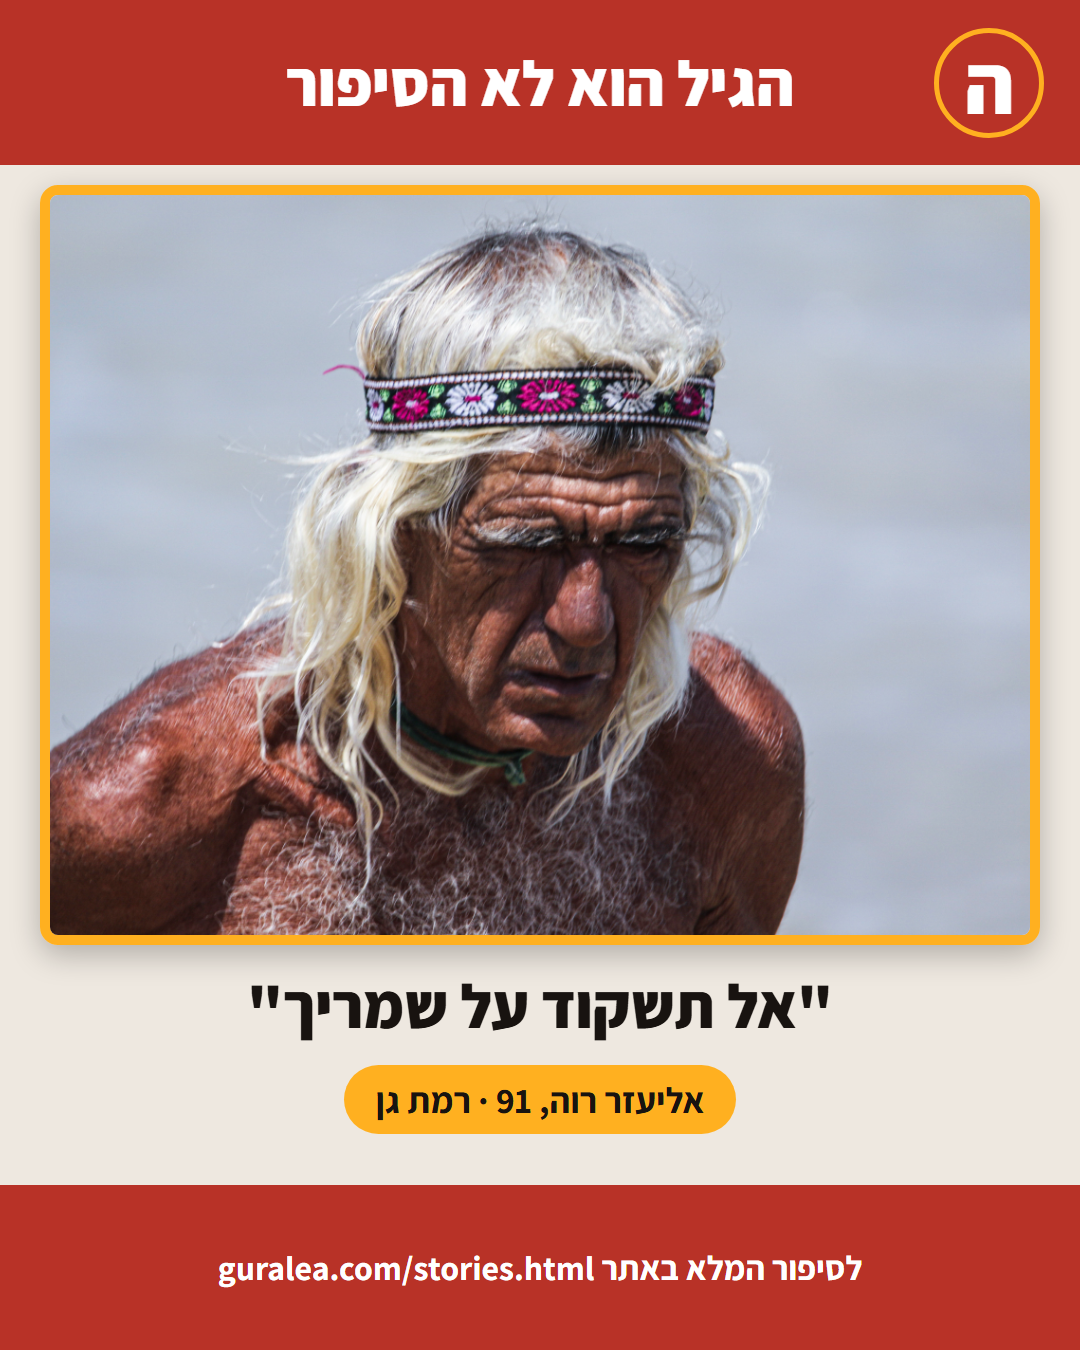
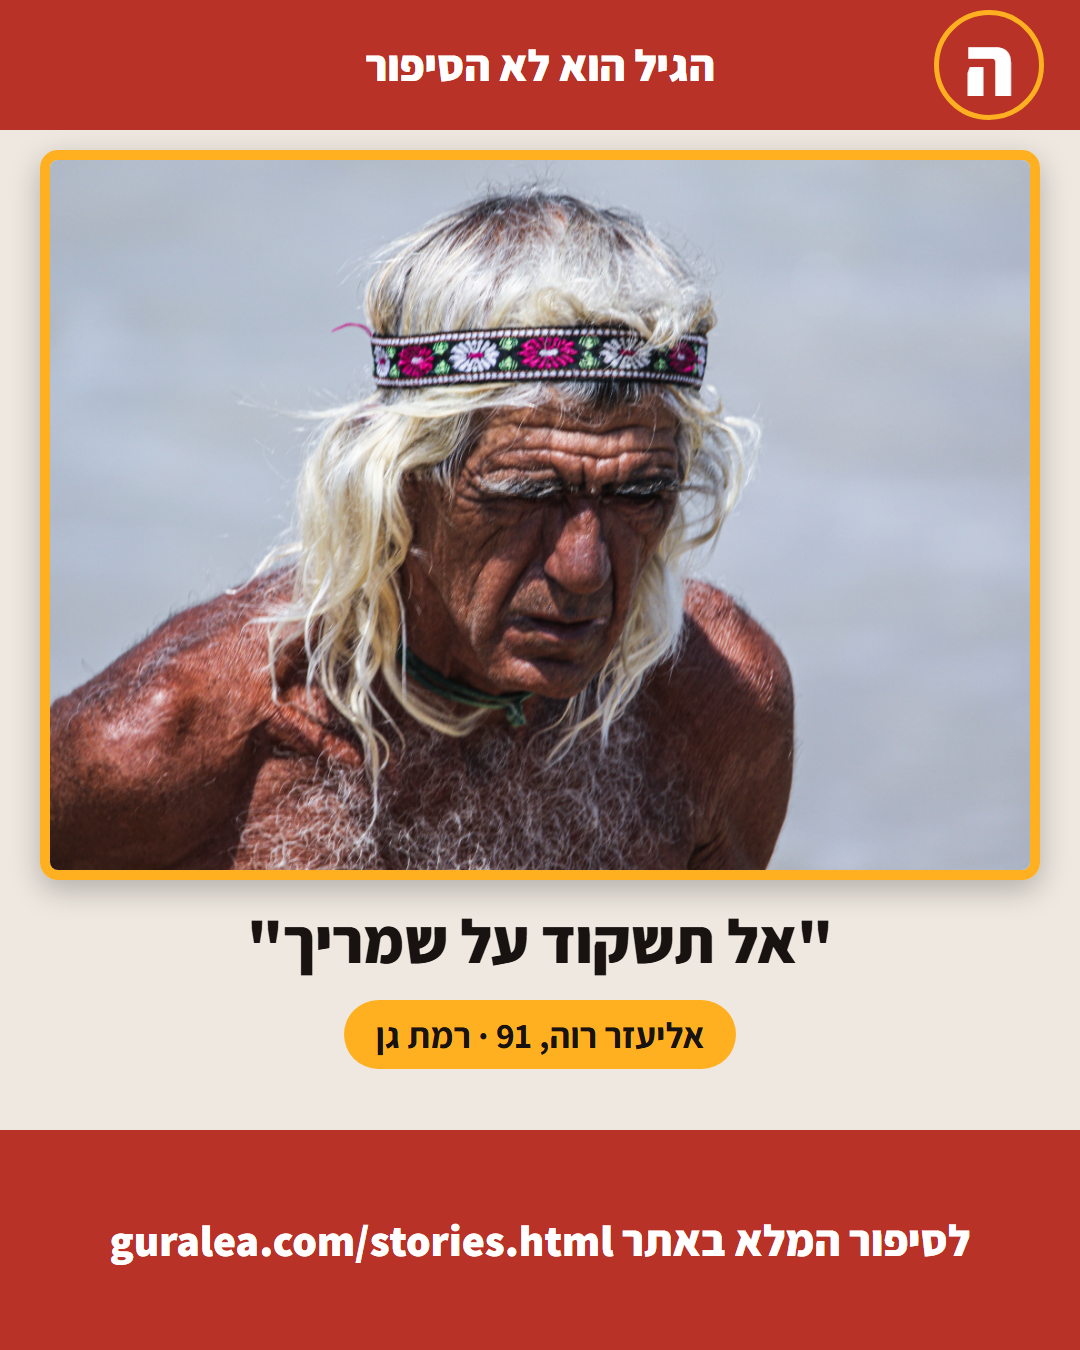
Rebalance bands: smaller top, bigger bottom, matching text sizes
Per Leah's explicit correction: top red band shrunk, bottom red band
grown, and the white text in both bands is now the same size (44px)
instead of a big/small mismatch.

diff --git a/.claude/skills/facebook-teaser/post-frame-template.html b/.claude/skills/facebook-teaser/post-frame-template.html
@@ -15,13 +15,13 @@
   }
   .top-band {
     background: #b83227;
-    height: 165px;
+    height: 130px;
     position: relative;
   }
   .wordmark {
     position: absolute; top: 0; left: 0; right: 0; height: 100%;
     display: flex; align-items: center; justify-content: center;
-    color: #fff; font-size: 64px; font-weight: 800; white-space: nowrap; text-align: center;
+    color: #fff; font-size: 44px; font-weight: 800; white-space: nowrap; text-align: center;
   }
   .logo-badge {
     position: absolute; top: 50%; right: 36px; transform: translateY(-50%);
@@ -31,29 +31,30 @@
     color: #fff; font-size: 84px; font-weight: 800;
   }
   .photo-area {
-    position: absolute; top: 185px; left: 40px; right: 40px; height: 760px;
+    position: absolute; top: 150px; left: 40px; right: 40px; height: 730px;
     border-radius: 18px; overflow: hidden; border: 10px solid #ffb020;
     box-shadow: 0 10px 30px rgba(0,0,0,0.25);
   }
   .photo-area img { width: 100%; height: 100%; object-fit: cover; object-position: center 20%; display: block; }
   .quote-area {
-    position: absolute; top: 965px; left: 15px; right: 15px; text-align: center;
+    position: absolute; top: 900px; left: 15px; right: 15px; text-align: center;
   }
   .quote-text {
     color: #181310; font-weight: 800;
     font-size: {{QUOTE_SIZE}}px;
     white-space: nowrap;
   }
-  .name-pill { position: absolute; top: 1065px; left: 0; right: 0; text-align: center; }
+  .name-pill { position: absolute; top: 1000px; left: 0; right: 0; text-align: center; }
   .name-pill span {
     display: inline-block; background: #ffb020; color: #181310; font-weight: 700;
     font-size: 36px; padding: 11px 32px; border-radius: 999px;
   }
   .bottom-band {
-    position: absolute; bottom: 0; left: 0; right: 0; height: 165px;
+    position: absolute; bottom: 0; left: 0; right: 0; height: 220px;
     background: #b83227; display: flex; align-items: center; justify-content: center;
+    padding: 0 20px;
   }
-  .bottom-band span { color: #fff; font-size: 34px; font-weight: 700; }
+  .bottom-band span { color: #fff; font-size: 44px; font-weight: 800; white-space: nowrap; }
 </style>
 </head>
 <body>
